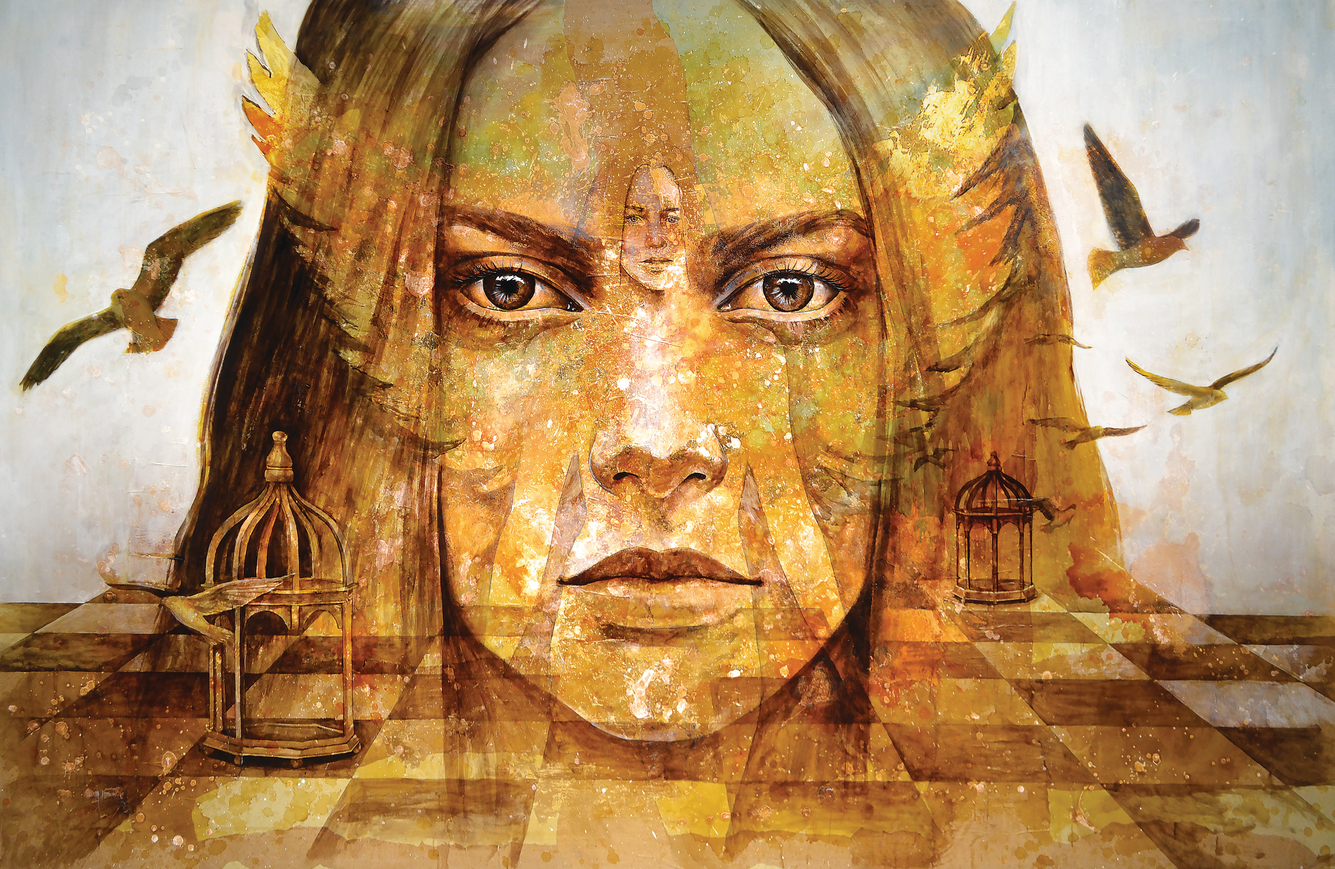
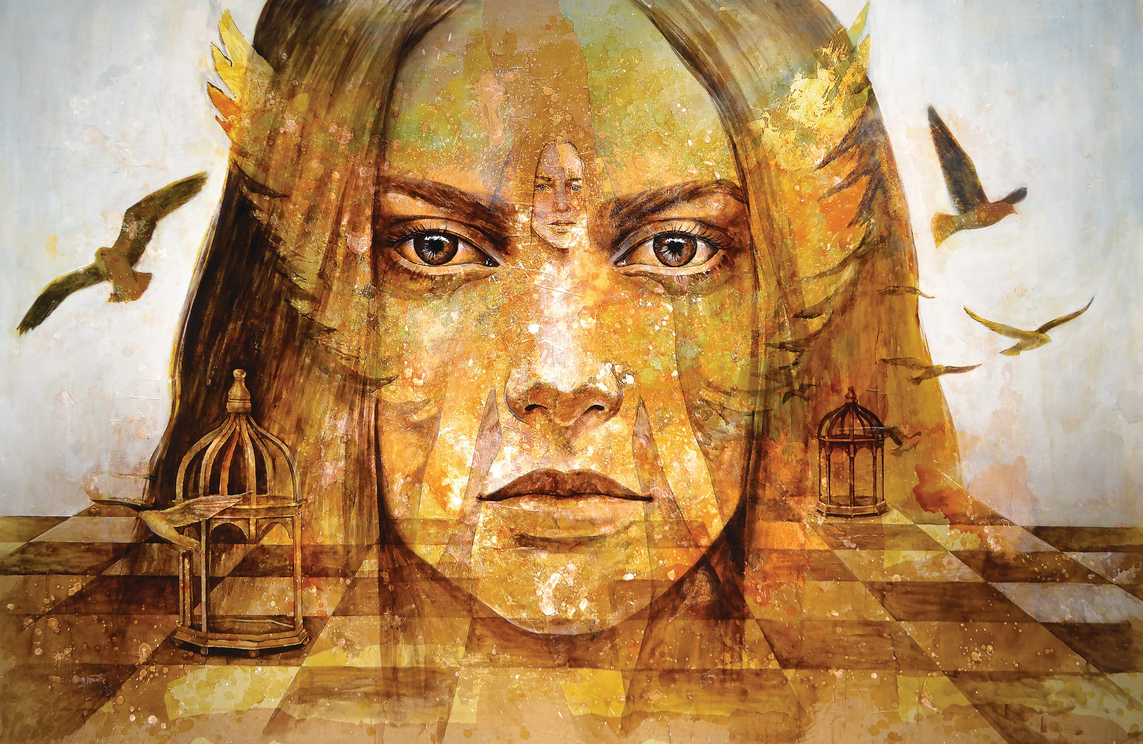
Re-encode public/media/site: 31 MB to 5 MB
The content export committed the stored originals straight from the old
site's CDN. Right for an archive, wrong for public/: they had never been
through an encoder, and the two most important images on the site —
home-hero.jpg at 8.95 MB and about-portrait.jpg at 9.82 MB — were between
them 19 MB of the 31 MB in that directory.

Adds scripts/optimise-media.mjs and runs it over public/media/site only.

Two rules, both chosen so nothing visible is lost. Width is capped at 2560,
which is the largest entry in deviceSizes in next.config.mjs, so next/image
cannot request a larger rendition under any viewport or DPR and the removed
pixels were unreachable. JPEG is then re-encoded at quality 82 with mozjpeg.

Result: 31.0 MB -> 5.1 MB across 10 of 12 files. The largest mean
per-channel difference is 1.81/255, or 0.7% — the script measures and
reports this per file rather than asking anyone to take it on trust. Two
files were left alone as already small and within the cap, og-image.jpg
among them.

Three images were wider than the cap and were resized. Their aspect ratios
are preserved to four decimal places, so the masonry — which packs purely
from aspect ratio — is unaffected. data/image-dimensions.json is
regenerated; exactly those three entries changed, none added or removed.
data/image-trim.json needed no change because trims are stored as fractions.

The script only writes when it saves at least 15%. That is what makes it
[…]

diff --git a/README.md b/README.md
@@ -114,7 +114,7 @@ Worth stating plainly, since the brief asked for honesty about this:
 
 Everything comes from `data/` — a structured export of the artist's previous
 site, committed in full: 8 exhibitions holding 128 works, 7 illustrations, 5
-interviews, the biography and CV, and 152 media files at original resolution —
+interviews, the biography and CV, and 152 media files —
 plus `karim-media/`, the recovered archive and the gallery catalogue that names
 31 of those works. No component hard-codes a fact or an image path.
 
@@ -157,6 +157,30 @@ them, marked `lang="ar" dir="rtl"` so they render and read correctly, and set
 in a self-hosted Noto Naskh Arabic — added to every font stack, where its
 unicode-range means it is reached for an Arabic codepoint and never for a Latin
 one. No English renderings were invented.
+
+### Media weight
+
+The export committed the stored originals straight from the old site's CDN.
+That was right for an archive and wrong for `public/`: they had never been
+through an encoder, and the two images on the home and about pages were 9 MB
+each.
+
+`scripts/optimise-media.mjs` caps width at 2560 — the largest entry in
+`deviceSizes`, so nothing above it can ever be served — and re-encodes at
+quality 82. It reports the mean per-channel difference for every file it
+rewrites, and only writes when it saves at least 15%, which makes a second run
+a no-op rather than another round of lossy encoding.
+
+`public/media/site/` has been through it: **31 MB to 5 MB**, largest mean
+difference 1.8/255. `public/media/exhibitions/` has not — those files may be
+replaced wholesale if the gallery's own photography is cleared, so optimising
+them now would likely be wasted. Originals are not duplicated anywhere: they
+are blobs in git history, recoverable with
+`git show <commit>:public/media/<path>`.
+
+Re-run `node scripts/measure-media.mjs` after any change here — the masonry
+reserves each box from `data/image-dimensions.json` before the image loads, and
+stale numbers mean the grid jumps as it fills.
 
 See **[docs/UPDATING_CONTENT.md](./docs/UPDATING_CONTENT.md)** to change any of
 it, and **[docs/CONTENT_ARCHIVE.md](./docs/CONTENT_ARCHIVE.md)** for how the
